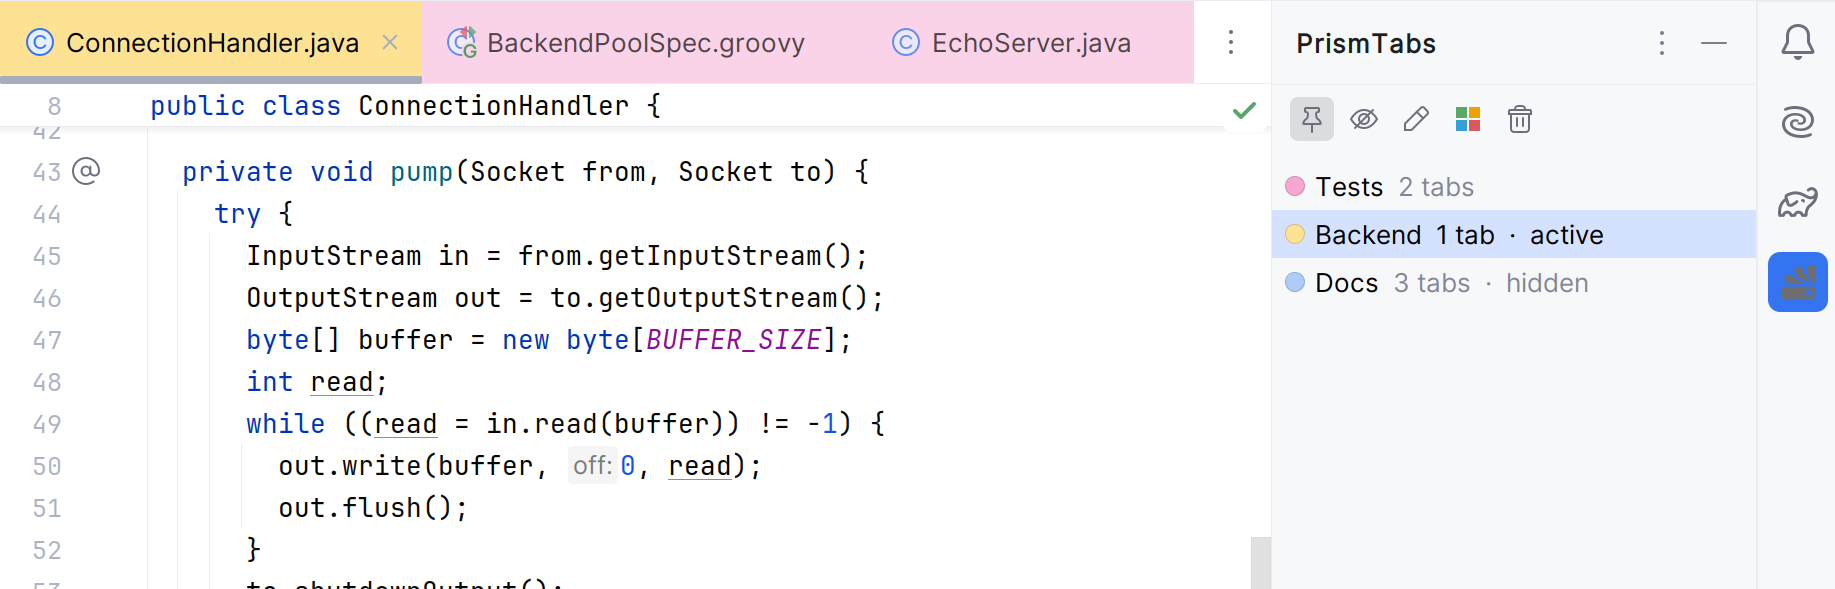
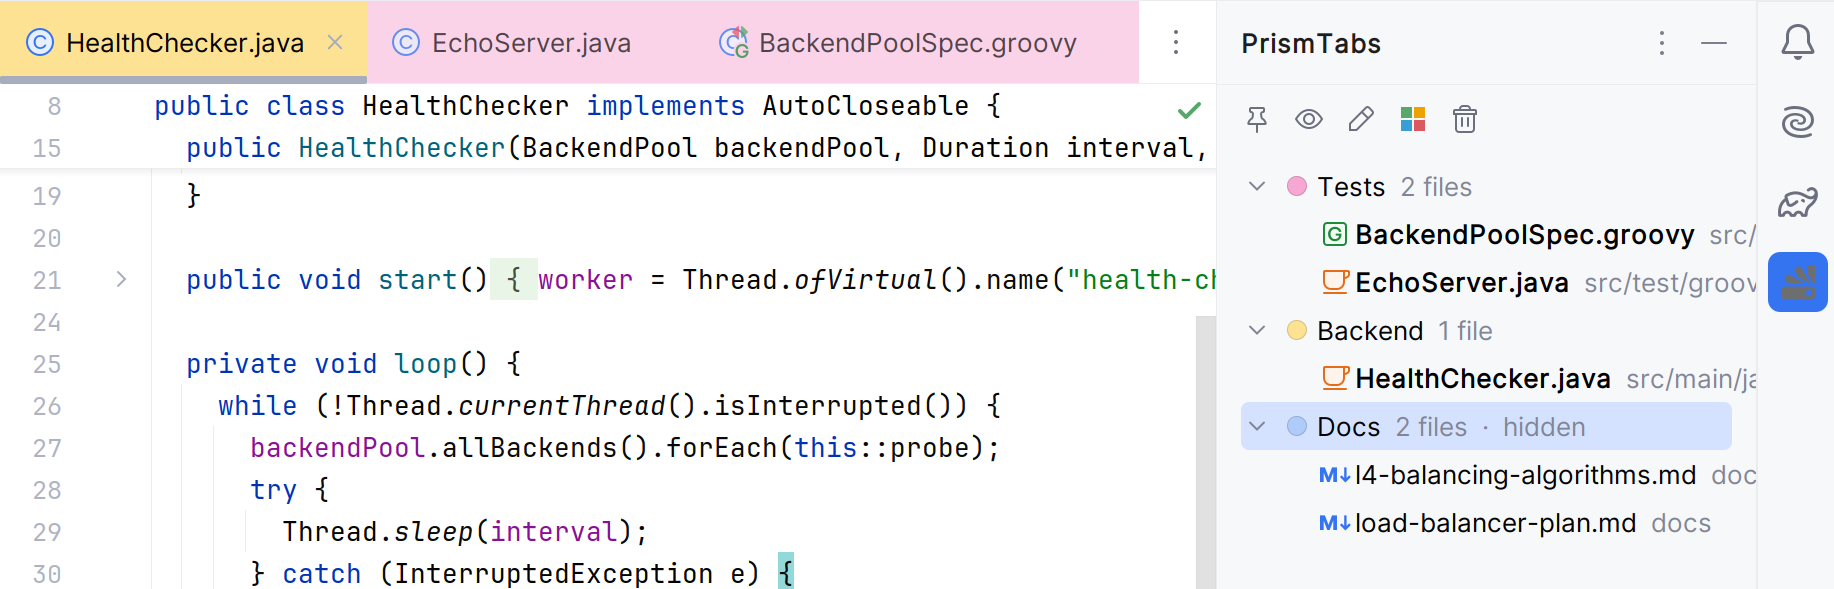
feat(home): update hero and swatch-popup screenshots for group membership
The hero tool-window shots and the swatch-popup shot were still showing the
pre-membership-visibility UI. Replace all three with screenshots of the
expanded group tree (member files listed under each group), re-cropped to
trim the same residual top/left window chrome fixed in 7b05a9d — the swatch
popup had never received that crop and still carried a visible top stripe.

Update the <img> width/height attributes to the new intrinsic sizes so
there is no layout shift, and correct the hero alt text: the new shot no
longer marks a group "active" and instead demonstrates the expanded file
listing under Tests, Backend and Docs.

diff --git a/index.html b/index.html
@@ -73,16 +73,16 @@
           <img
             class="hero-shot-dark"
             src="assets/hero-tool-window-dark.png"
-            width="1835"
+            width="1834"
             height="589"
-            alt="PrismTabs in IntelliJ IDEA: three editor tabs tinted by group, next to the PrismTabs tool window listing the Tests, Backend and Docs groups — Backend marked active, Docs hidden — with pin, hide, rename, recolour and delete actions in the toolbar."
+            alt="PrismTabs in IntelliJ IDEA: three editor tabs tinted by group, next to the PrismTabs tool window with the Tests, Backend and Docs groups expanded to show their member files — Docs marked hidden — with pin, hide, rename, recolour and delete actions in the toolbar."
           />
           <img
             class="hero-shot-light"
             src="assets/hero-tool-window-light.png"
-            width="1835"
+            width="1834"
             height="589"
-            alt="PrismTabs in IntelliJ IDEA: three editor tabs tinted by group, next to the PrismTabs tool window listing the Tests, Backend and Docs groups — Backend marked active, Docs hidden — with pin, hide, rename, recolour and delete actions in the toolbar."
+            alt="PrismTabs in IntelliJ IDEA: three editor tabs tinted by group, next to the PrismTabs tool window with the Tests, Backend and Docs groups expanded to show their member files — Docs marked hidden — with pin, hide, rename, recolour and delete actions in the toolbar."
           />
         </div>
       </div>
@@ -189,8 +189,8 @@
         <figure class="section-shot">
           <img
             src="assets/screenshot-swatch-popup.png"
-            width="1394"
-            height="760"
+            width="1223"
+            height="750"
             loading="lazy"
             alt="The right-click menu open on an editor tab, showing the New Group colour swatches — Grey, Blue, Red, Yellow, Green, Pink, Purple, Cyan — above Add to Group, Manage Groups and Remove from Group."
           />
